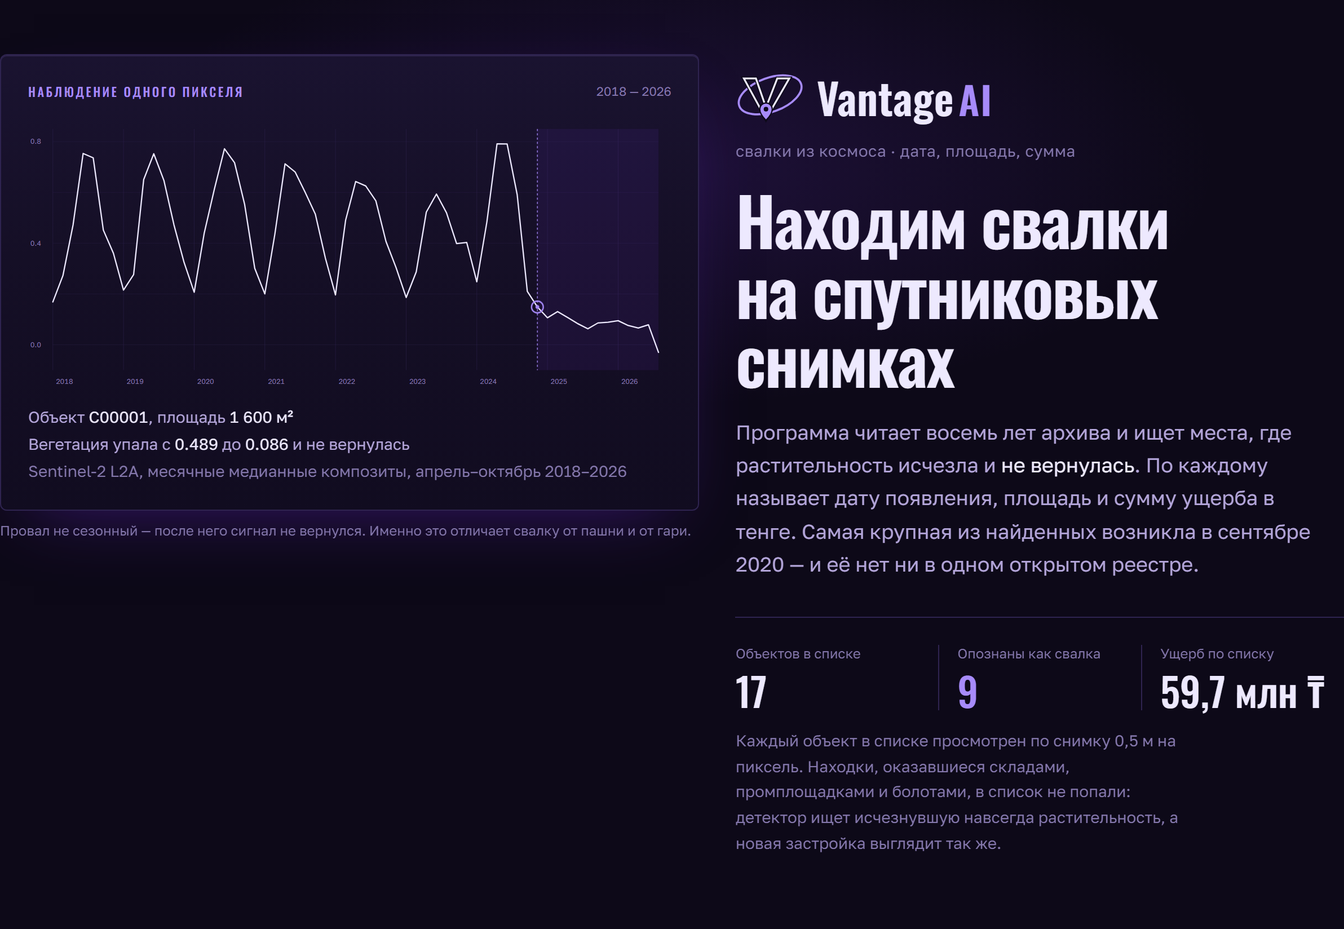
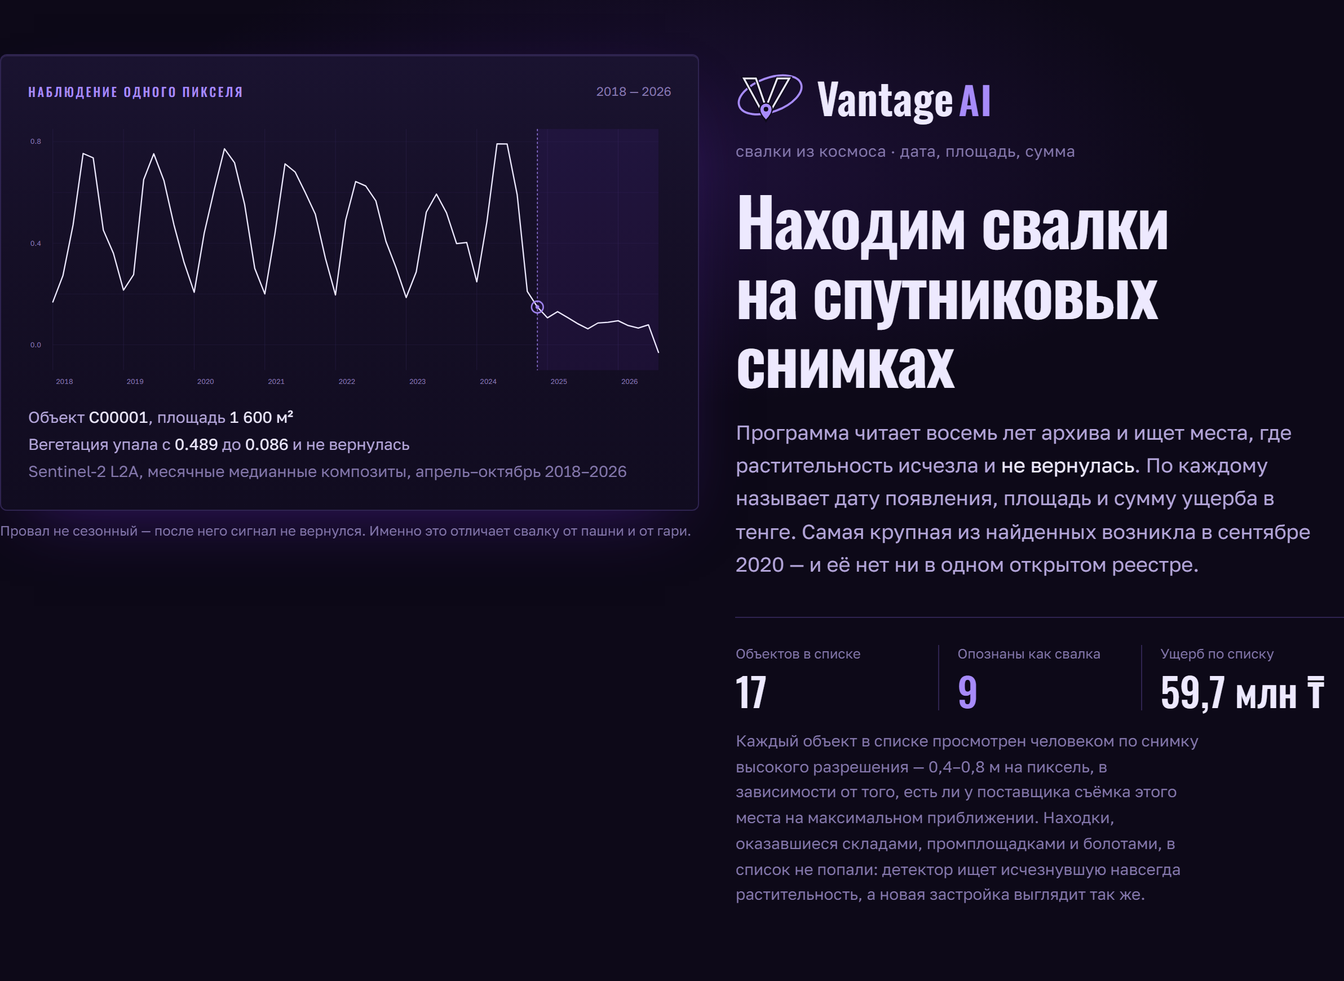
«0,5 м на пиксель» — число, которого нет ни у одного снимка
Разрешение просмотра называлось то 0,5, то 0,6, то 0,75 м на пиксель, и
верным не было ни одно из первых двух. Тайлы качаются лесенкой зумов: на
широте Астаны 18-й даёт 0,37 м, 17-й — 0,75. В кэше 139 кадров на 18-м и
109 на 17-м.

Везде поставлен честный диапазон **0,4–0,8 м на пиксель**, и на лендинге
объяснено, откуда он берётся: у поставщика не везде есть съёмка на
максимальном приближении.

Проверяющий, который откроет кэш и увидит два зума, найдёт там ровно то,
что написано на сайте.

659 проверок, шесть страниц дымового теста, пятнадцать сочетаний узких
экранов, десять снимков деки.

diff --git a/web-next/src/App.tsx b/web-next/src/App.tsx
@@ -84,7 +84,7 @@ function stagesFrom(funnel: Funnel | null, kept: number): Stage[] {
   /* Последний шаг — человек, и без него воронка не сходилась.
      Автоматический отсев снимает 326 из 385, остаётся 59 — а на карте их
      семнадцать. Сорок два объекта убрал не алгоритм, а просмотр глазами по
-     снимкам 0,5 м, и в воронке этого шага не было: столбцы давали 343 при
+     снимкам 0,4–0,8 м, и в воронке этого шага не было: столбцы давали 343 при
      385 кандидатах. Несходящаяся сумма на лендинге — первое, что считает
      проверяющий.
      Шаг стоит показывать ещё и потому, что он сильный: команда, которая
@@ -95,7 +95,7 @@ function stagesFrom(funnel: Funnel | null, kept: number): Stage[] {
   if (byEye > 0) {
     stages.push({
       label: 'Отвергнуто при просмотре',
-      detail: 'человек посмотрел каждый по снимку 0,5 м — склад, стройка, старица',
+      detail: 'человек посмотрел каждый по снимку 0,4–0,8 м — склад, стройка, старица',
       count: byEye,
     });
   }
@@ -342,7 +342,10 @@ export default function App() {
                   найденный жюри самостоятельно, ломает доверие; названный
                   нами — доказывает, что проверка была. */}
               <p className="mt-4 max-w-[48ch] text-sm leading-relaxed text-muted-2">
-                Каждый объект в списке просмотрен по снимку 0,5 м на пиксель.
+                Каждый объект в списке просмотрен человеком по снимку
+                высокого разрешения — 0,4–0,8 м на пиксель, в зависимости от
+                того, есть ли у поставщика съёмка этого места на максимальном
+                приближении.
                 Находки, оказавшиеся складами, промплощадками и болотами, в
                 список не попали: детектор ищет исчезнувшую навсегда
                 растительность, а новая застройка выглядит так же.
@@ -370,7 +373,7 @@ export default function App() {
                     ['Возник', humanDate(hero.properties?.break_date)],
                     ['Площадь', `${num(Number(hero.properties?.area_m2))} м²`],
                     ['Ущерб', kzt(Number(hero.properties?.damage_p50))],
-                    ['Проверен', 'глазами, 0,6 м/пиксель'],
+                    ['Проверен', 'глазами, 0,4–0,8 м/пиксель'],
                   ].map(([k, v]) => (
                     <div key={k}>
                       <dt className="text-xs text-muted-2">{k}</dt>
@@ -414,7 +417,7 @@ export default function App() {
             местности</strong> эти признаки не могут: измерено на подтверждённых
             объектах и на находках, оказавшихся ложными, — точность 0,500,
             то есть случайная. Дальше решают контекстный отсев по
-            OpenStreetMap и человек со снимком 0,5 м на пиксель.
+            OpenStreetMap и человек со снимком 0,4–0,8 м на пиксель.
           </p>
         </section>
 

diff --git a/web-next/src/MapApp.tsx b/web-next/src/MapApp.tsx
@@ -58,7 +58,7 @@ const DISAGREEMENT = 0.2;
 const VISUAL: Record<string, { short: string; full: string; tone: string; dot: string }> = {
   landfill: {
     short: 'свалка',
-    full: 'На снимке 0,5 м на пиксель видны признаки ссыпки: гребни от самосвалов, россыпь мусора, подъездные колеи.',
+    full: 'На снимке 0,4–0,8 м на пиксель видны признаки ссыпки: гребни от самосвалов, россыпь мусора, подъездные колеи.',
     tone: 'text-line',
     dot: '#a78bfa',
   },
@@ -479,7 +479,7 @@ export default function MapApp() {
                 В реестре слева {totals.count}{' '}
                 {plural(totals.count, 'объект', 'объекта', 'объектов')}
                 {raw ? `, отобранных из ${raw}` : ''}.
-                Каждый просмотрен по снимку 0,5 м на пиксель:{' '}
+                Каждый просмотрен по снимку 0,4–0,8 м на пиксель:{' '}
                 <span className="text-line">{totals.confirmed}</span> опознаны как
                 свалки, остальные требуют выезда — по снимку не решить.
                 Находки, оказавшиеся складами, промплощадками и болотами, в
@@ -596,7 +596,7 @@ function ObjectCard({ f }: { f: Feature }) {
       {typeof p.highres_score === 'number' && (
         <div className="mt-3 rounded-sm border border-grid bg-soot-2 px-3 py-2.5">
           <div className="flex items-baseline justify-between gap-3">
-            <span className="text-xs text-muted-2">Модель по снимку 0,5 м</span>
+            <span className="text-xs text-muted-2">Модель по снимку 0,4–0,8 м</span>
             <span className="tabular text-sm text-muted">
               {p.highres_score.toFixed(2)}
             </span>
@@ -628,7 +628,7 @@ function ObjectCard({ f }: { f: Feature }) {
             ? 'Объект не попал в обучающую выборку, и модель по нему не высказывалась. Прочерк честнее подставленного числа.'
             : model < DISAGREEMENT
             ? (visualOf(p)?.short === 'свалка'
-                ? 'Модель возражает: изменение похоже на законное. Но объект уже просмотрен по снимку 0,5 м, и там видна ссыпка — человек сильнее модели, обученной на чужой стране.'
+                ? 'Модель возражает: изменение похоже на законное. Но объект уже просмотрен по снимку 0,4–0,8 м, и там видна ссыпка — человек сильнее модели, обученной на чужой стране.'
                 : 'Модель возражает детектору: изменение похоже на законное — карьер, стройку или отвал грунта. Ехать сюда стоит первым делом.')
             : model >= 0.85
             ? `Признаков сработало ${Number(p.n_agreeing) || 0} из 5, согласие ${Math.round(score * 100)}%. Оценка вневыборочная: этот объект модель на обучении не видела.`

diff --git a/scripts/key_numbers.py b/scripts/key_numbers.py
@@ -102,7 +102,7 @@ def main() -> int:
         f"> **{dumps} {plural(dumps, 'свалка', 'свалки', 'свалок')}** опознаны "
         f"под Астаной из **{funnel['raw']}** находок детектора. "
         f"Каждый из **{passed}** объектов, прошедших автоматический отсев, "
-        f"просмотрен человеком по снимку 0,5 м на пиксель — до единого.",
+        f"просмотрен человеком по снимку 0,4–0,8 м на пиксель — до единого.",
         "",
         "## Находки",
         "",
@@ -171,7 +171,7 @@ def main() -> int:
         "## Чего у нас нет — говорить самим",
         "",
         "- **Ни одного объекта, подтверждённого выездом.** Все проверки —",
-        "  по снимкам 0,5 м. Куда ехать, посчитано в [FIELD.md](FIELD.md).",
+        "  по снимкам 0,4–0,8 м. Куда ехать, посчитано в [FIELD.md](FIELD.md).",
         "- **Четыре области из пяти дали ноль настоящих свалок.** Это не",
         "  провал, а измеренная граница применимости — [BELTS.md](BELTS.md).",
         "- **Три попытки обучить свою модель, все три неудачные.** Числа в",

diff --git a/README.md b/README.md
@@ -54,7 +54,7 @@ Sentinel-2 · Sentinel-1 · Landsat 8/9
 промышленную местность от сельской отличают уверенно (0,93).
 
 Различают дальше две вещи, и обе не спектральные: контекстный отсев по
-OpenStreetMap (385 кандидатов → 59) и человек со снимком 0,5 м на
+OpenStreetMap (385 кандидатов → 59) и человек со снимком 0,4–0,8 м на
 пиксель. Так система и устроена.
 
 Машинный просмотр по снимкам измерен на 49 объектах, у которых есть и
@@ -242,7 +242,7 @@ python -m vantage.bot
 
 | # | Что | Где |
 |---|---|---|
-| 1 | **Подтверждение с земли.** Все проверки идут по снимкам 0,5 м. Ни один объект не подтверждён выездом — координаты и порядок готовы в [FIELD.md](docs/FIELD.md) | [FIELD.md](docs/FIELD.md) |
+| 1 | **Подтверждение с земли.** Все проверки идут по снимкам 0,4–0,8 м. Ни один объект не подтверждён выездом — координаты и порядок готовы в [FIELD.md](docs/FIELD.md) | [FIELD.md](docs/FIELD.md) |
 | 2 | **В сельской местности метод не работает.** 104 находки за три прогона, ни одной настоящей свалки. Проверять область научились до прогона | [BELTS.md](docs/BELTS.md) |
 | 3 | Радар, тепло и полимеры объясняют результат, но в само решение детектора не входят | [signals.py](src/vantage/signals.py) |
 | 4 | Тариф вывоза за тонну: **82% разброса оценки ущерба** | [economics](config/economics_astana.yaml) |
@@ -321,7 +321,7 @@ docs/
 - **Четыре параметра экономики — инженерная оценка**, а не документ. `vantage doctor` перечисляет их поимённо.
 - **Перенос классификатора на Казахстан вероятен, но выборка мала.** Модель обучена на AerialWaste (5 220 снимков, ROC-AUC 0,858 на их данных); на наших объектах **0,680 при интервале 0,517–0,841**. Пока объектов было семнадцать, нижняя граница лежала на 0,333 — ниже случайного, и перенос назывался недоказанным. На 51 объекте она перешла черту. Называть надо нижнюю границу, а не середину.
 - **Метод не универсален по ландшафту.** Там, где сельское хозяйство даёт такой же след, что и свалка, находки будут ложными. Проверять область следует до прогона: `scripts/probe_city.py`.
-- **Проверка идёт по снимкам, а не с земли.** Просмотр по 0,5 м/пиксель отличает свалку от склада, но не заменяет выезд. Источник проверки хранится по каждому объекту отдельным полем и на сайте не смешивается.
+- **Проверка идёт по снимкам, а не с земли.** Просмотр по 0,4–0,8 м/пиксель отличает свалку от склада, но не заменяет выезд. Источник проверки хранится по каждому объекту отдельным полем и на сайте не смешивается.
 - **Это модель вероятности, а не юридическое доказательство.** Решение о статусе объекта, штрафе и факте устранения принимает уполномоченное лицо. Vantage AI ускоряет и удешевляет процесс, но не заменяет инспектора.
 
 ---

diff --git a/docs/PITCH.md b/docs/PITCH.md
@@ -116,7 +116,7 @@
 >
 > · **контекстный отсев по OpenStreetMap** — карьеры, стройки, вода,
 >   застройка вон из списка: из 385 кандидатов остаётся 21;
-> · **человек со снимком 0,5 м** — отличает кучу мусора от штабеля труб
+> · **человек со снимком 0,4–0,8 м** — отличает кучу мусора от штабеля труб
 >   за секунду. Тридцать объектов проверяются за час.
 
 **Зачем так:** это единственная формулировка, которая устоит под вопросом
@@ -138,7 +138,7 @@
 >
 > **385** кандидатов нашёл детектор
 > **21** прошёл автоматический отсев (причина отказа хранится по каждому)
-> **7** остались после проверки по снимку 0,6 м/пиксель
+> **7** остались после проверки по снимку 0,4–0,8 м/пиксель
 > **3** подтверждены как свалки, 4 требуют выезда
 >
 > Остальное оказалось складами, промплощадками и болотами.
@@ -182,7 +182,7 @@
 > **Главное число: машина снимает 71% ручной работы**
 >
 > Все 59 находок северного кольца просмотрены человеком по снимкам
-> 0,5 м/пиксель — до единой. У 49 из них есть и машинный вердикт, и на
+> 0,4–0,8 м/пиксель — до единой. У 49 из них есть и машинный вердикт, и на
 > этих 49 машинный просмотр можно померить целиком, а не по кусочку.
 >
 > | машина ↓ / человек → | свалка | не свалка |

diff --git a/docs/NUMBERS.md b/docs/NUMBERS.md
@@ -6,7 +6,7 @@
 
 ## Если спросят одно число
 
-> **9 свалок** опознаны под Астаной из **385** находок детектора. Каждый из **59** объектов, прошедших автоматический отсев, просмотрен человеком по снимку 0,5 м на пиксель — до единого.
+> **9 свалок** опознаны под Астаной из **385** находок детектора. Каждый из **59** объектов, прошедших автоматический отсев, просмотрен человеком по снимку 0,4–0,8 м на пиксель — до единого.
 
 ## Находки
 
@@ -69,7 +69,7 @@
 ## Чего у нас нет — говорить самим
 
 - **Ни одного объекта, подтверждённого выездом.** Все проверки —
-  по снимкам 0,5 м. Куда ехать, посчитано в [FIELD.md](FIELD.md).
+  по снимкам 0,4–0,8 м. Куда ехать, посчитано в [FIELD.md](FIELD.md).
 - **Четыре области из пяти дали ноль настоящих свалок.** Это не
   провал, а измеренная граница применимости — [BELTS.md](BELTS.md).
 - **Три попытки обучить свою модель, все три неудачные.** Числа в
